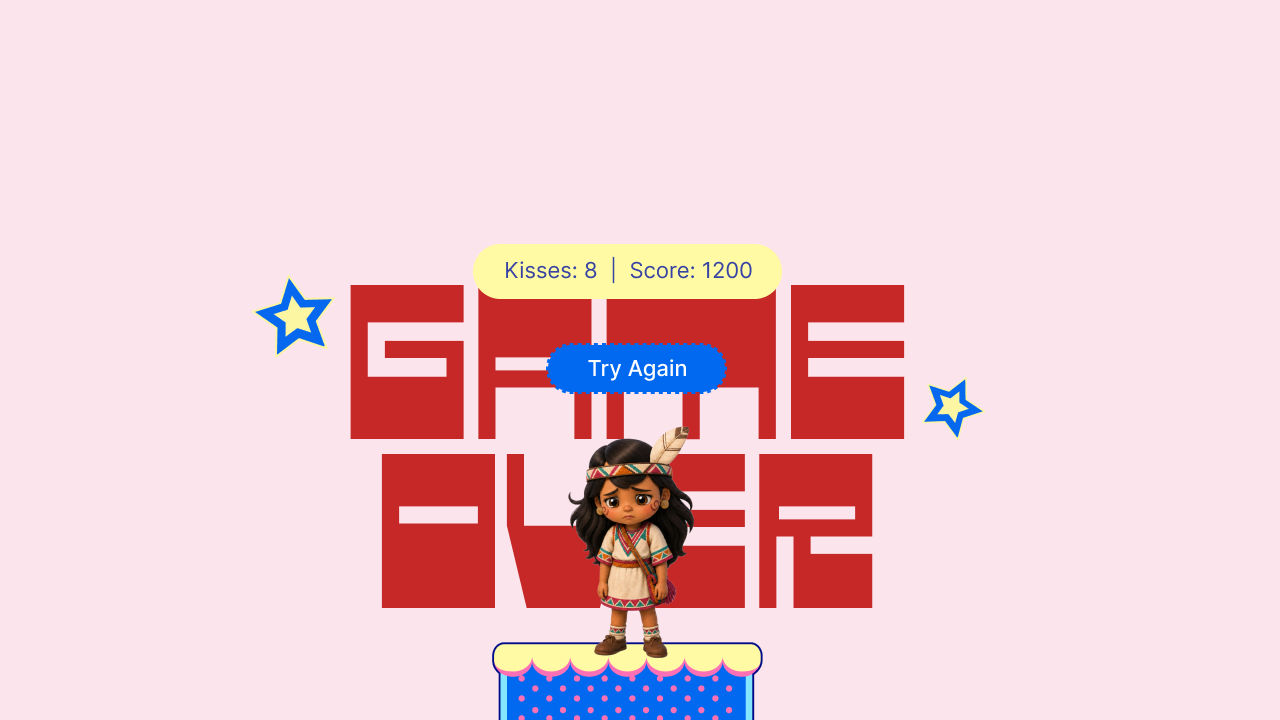
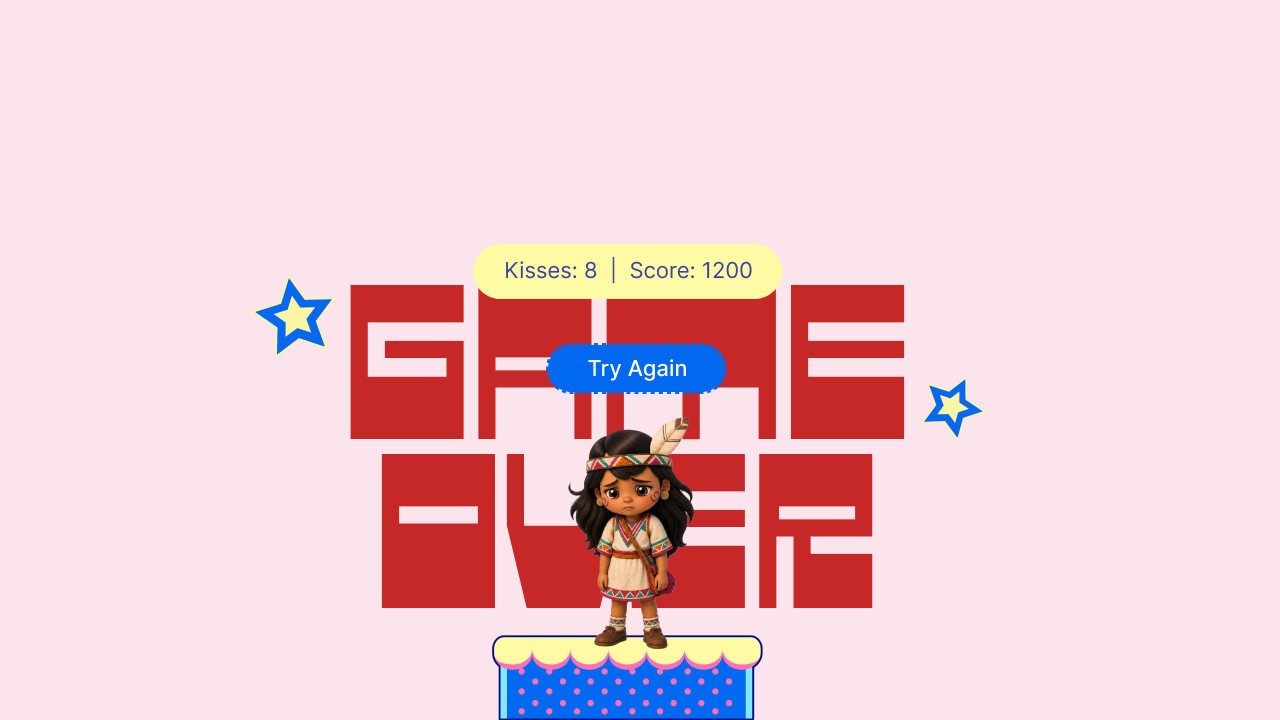
Reload level-1 background (- 1) and M03 Game Over from Figma
- Fresh export for gameplay art node 24:328
- Updated M03 game-over-screen with repositioned character/platform
- Bump worldAssetVersion and screenAssetVersion to 20260711d

Changed region(s): [[0.375, 0.5806, 0.5938, 1.0]]

diff --git a/src/config/gameConfig.ts b/src/config/gameConfig.ts
@@ -4,11 +4,11 @@
  */
 export const GAME_CONFIG = {
   /** Bump after Figma asset sync so phones bypass CDN/browser cache */
-  worldAssetVersion: '20260711c',
+  worldAssetVersion: '20260711d',
   characterAssetVersion: '20260705l',
   enemyAssetVersion: '20260705l',
   /** Bump after Figma M01/M03/M04 screen art sync */
-  screenAssetVersion: '20260711c',
+  screenAssetVersion: '20260711d',
   /** Bump after audio asset sync */
   audioAssetVersion: '20260711b',
 

diff --git a/src/ui/endScreenLayout.ts b/src/ui/endScreenLayout.ts
@@ -20,10 +20,10 @@ export const END_SCREEN = {
     statsBg: 0xfffaa3,
     statsTextColor: '#3744a4',
     statsTextSize: 22,
-    characterY: 543,
+    characterY: 534,
     characterW: 184,
     characterH: 246,
-    platformY: 641,
+    platformY: 634,
     platformW: 274,
     platformH: 88,
     ctaY: 369,